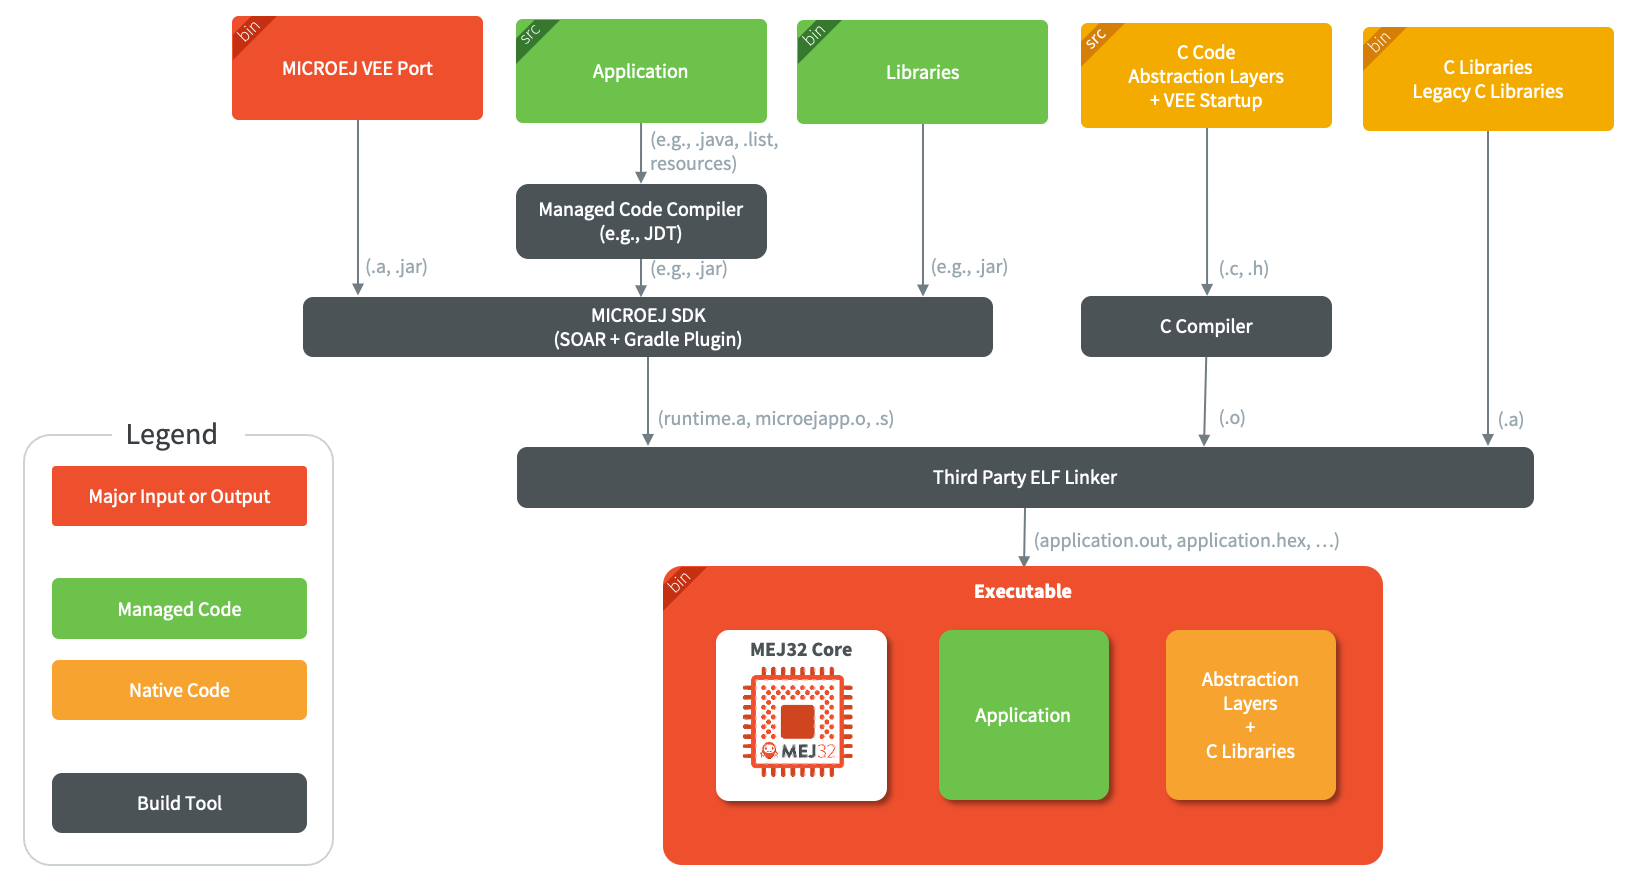
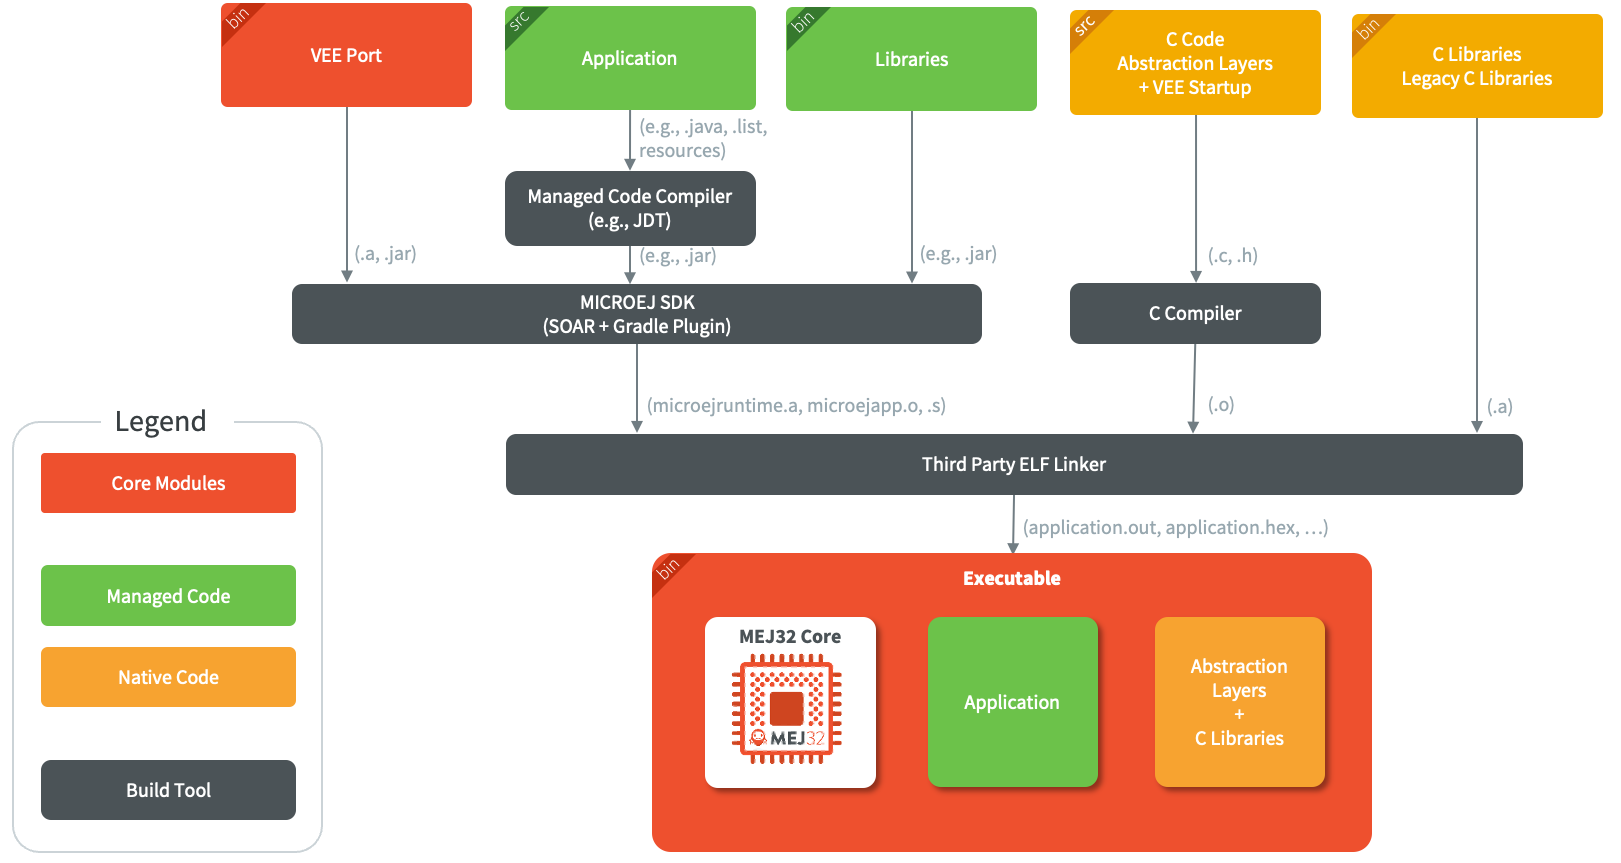
M0269MD-612 Integrate comments

diff --git a/overview/index.rst b/overview/index.rst
@@ -92,14 +92,17 @@ The following diagram outlines the SDK content. Please refer to the :ref:`sdk_6_
 
 .. _executableBuildWorkflow:
 
-Executable Build Workflow
--------------------------
+Build Workflow
+--------------
 
 An Executable is built from several input resources and tools.
 Each component has dependencies and requirements that must be
 carefully respected in order to build an Executable.
 
-So first let's have a look at what you can rely on in terms of resources MicroEJ offers and where to find them.
+Resources and Dependencies Flow
+^^^^^^^^^^^^^^^^^^^^^^^^^^^^^^^
+
+Let's take a closer look at the resources MicroEJ has to offer and where to find them.
 
 .. figure:: images/qa_resources-v4.png
     :alt: MicroEJ Resources and Origins to Build Applications
@@ -108,7 +111,10 @@ So first let's have a look at what you can rely on in terms of resources MicroEJ
 
     MicroEJ Resources to Build Applications and their Origins
 
-To build your application, a VEE Port is required, you can see below how a VEE port is built from a MICROEJ Architecture.
+VEE Port Build Flow
+^^^^^^^^^^^^^^^^^^^
+    
+To build an application, a VEE Port is required, you can see below how a VEE port is built from a MICROEJ Architecture.
     
 .. figure:: images/qa_veeportbuild-v4.png
     :alt: VEE Port Build Flow
@@ -117,8 +123,10 @@ To build your application, a VEE Port is required, you can see below how a VEE p
 
     VEE Port Build Flow
 
+Executable Build Flow
+^^^^^^^^^^^^^^^^^^^^^
 
-And then using a VEE Port here is how to build the executable for embedded devices.
+Using a VEE Port here is how we build the executable for embedded devices.
  
 .. figure:: images/qa_executablebuild-v4.png
     :alt: Executable Build Flow
